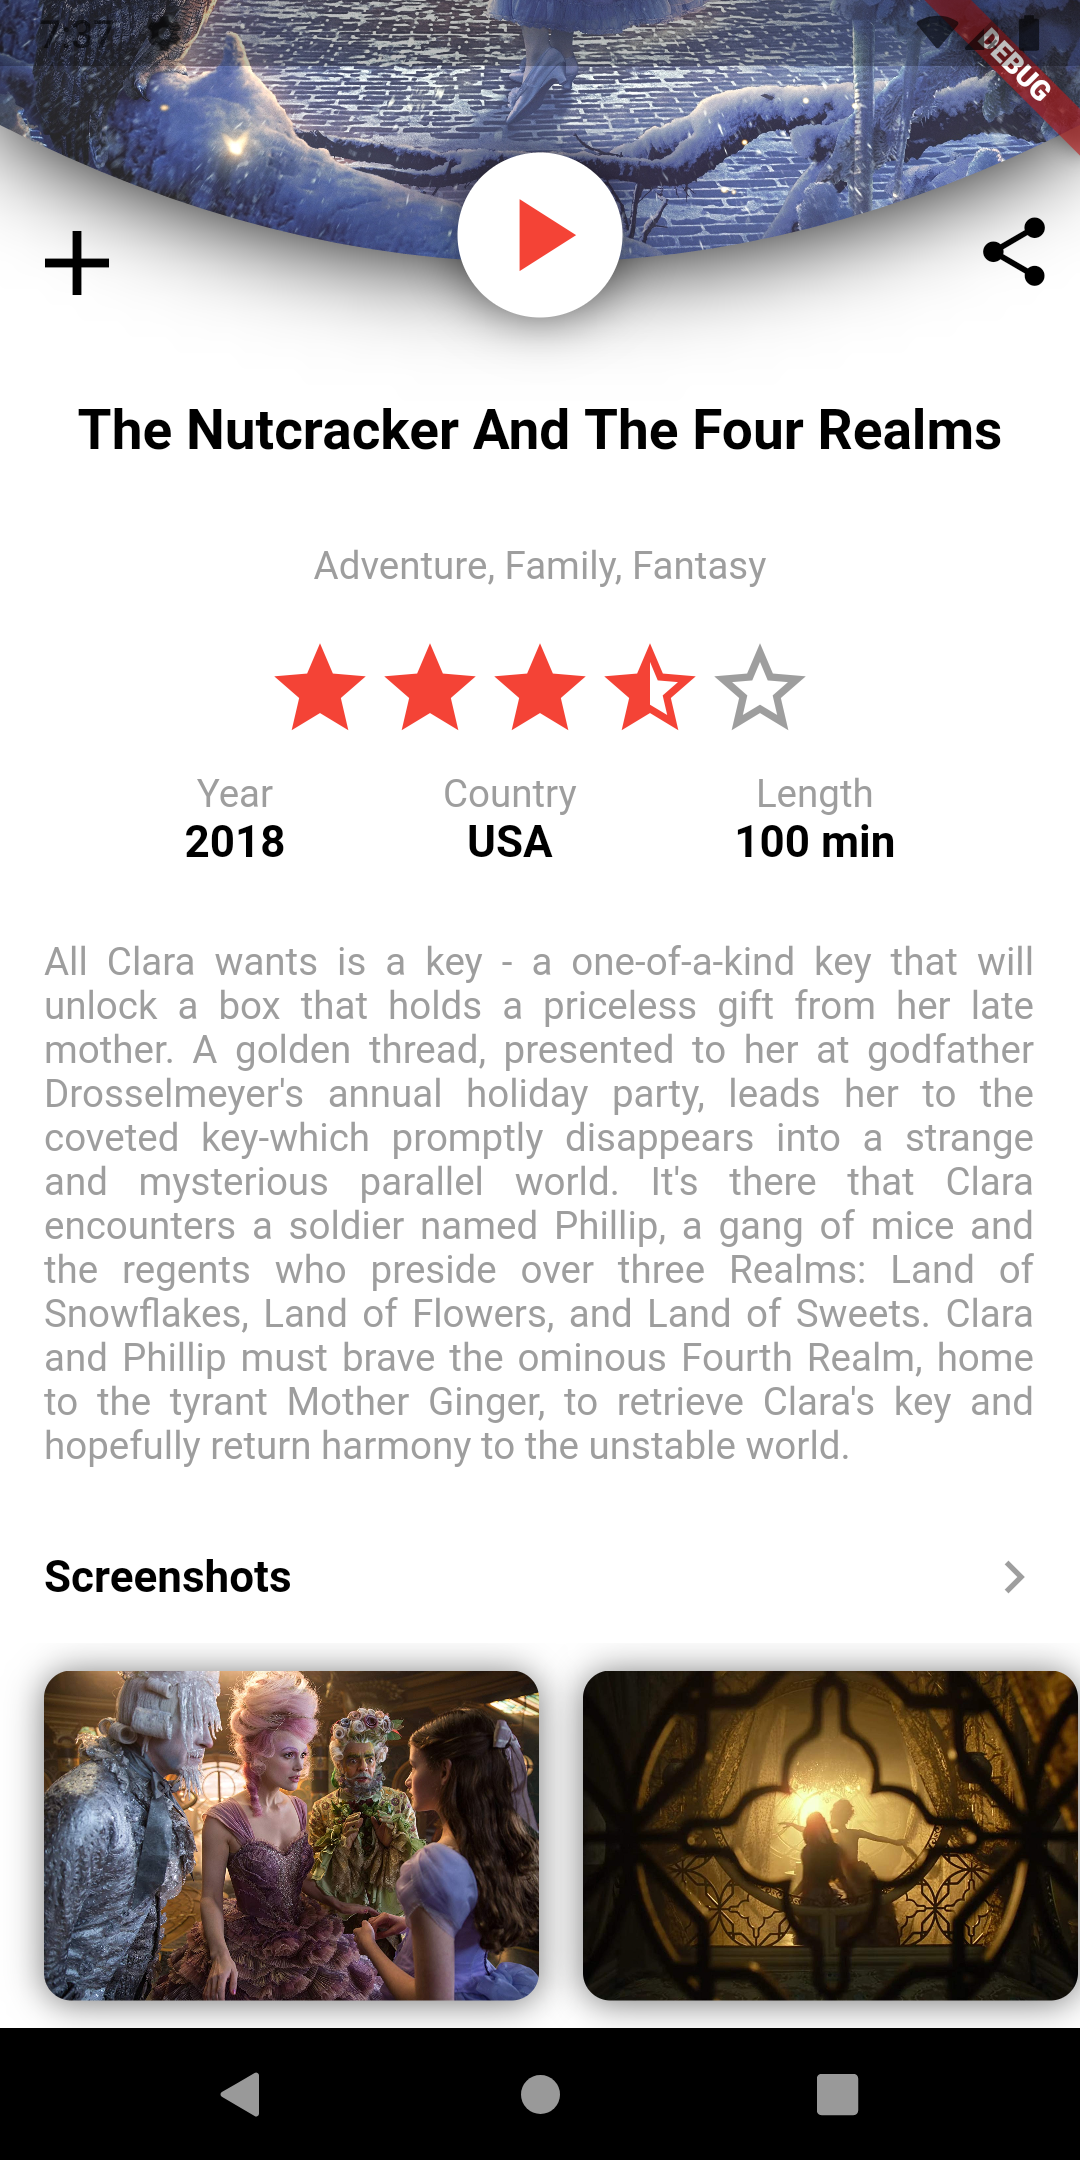
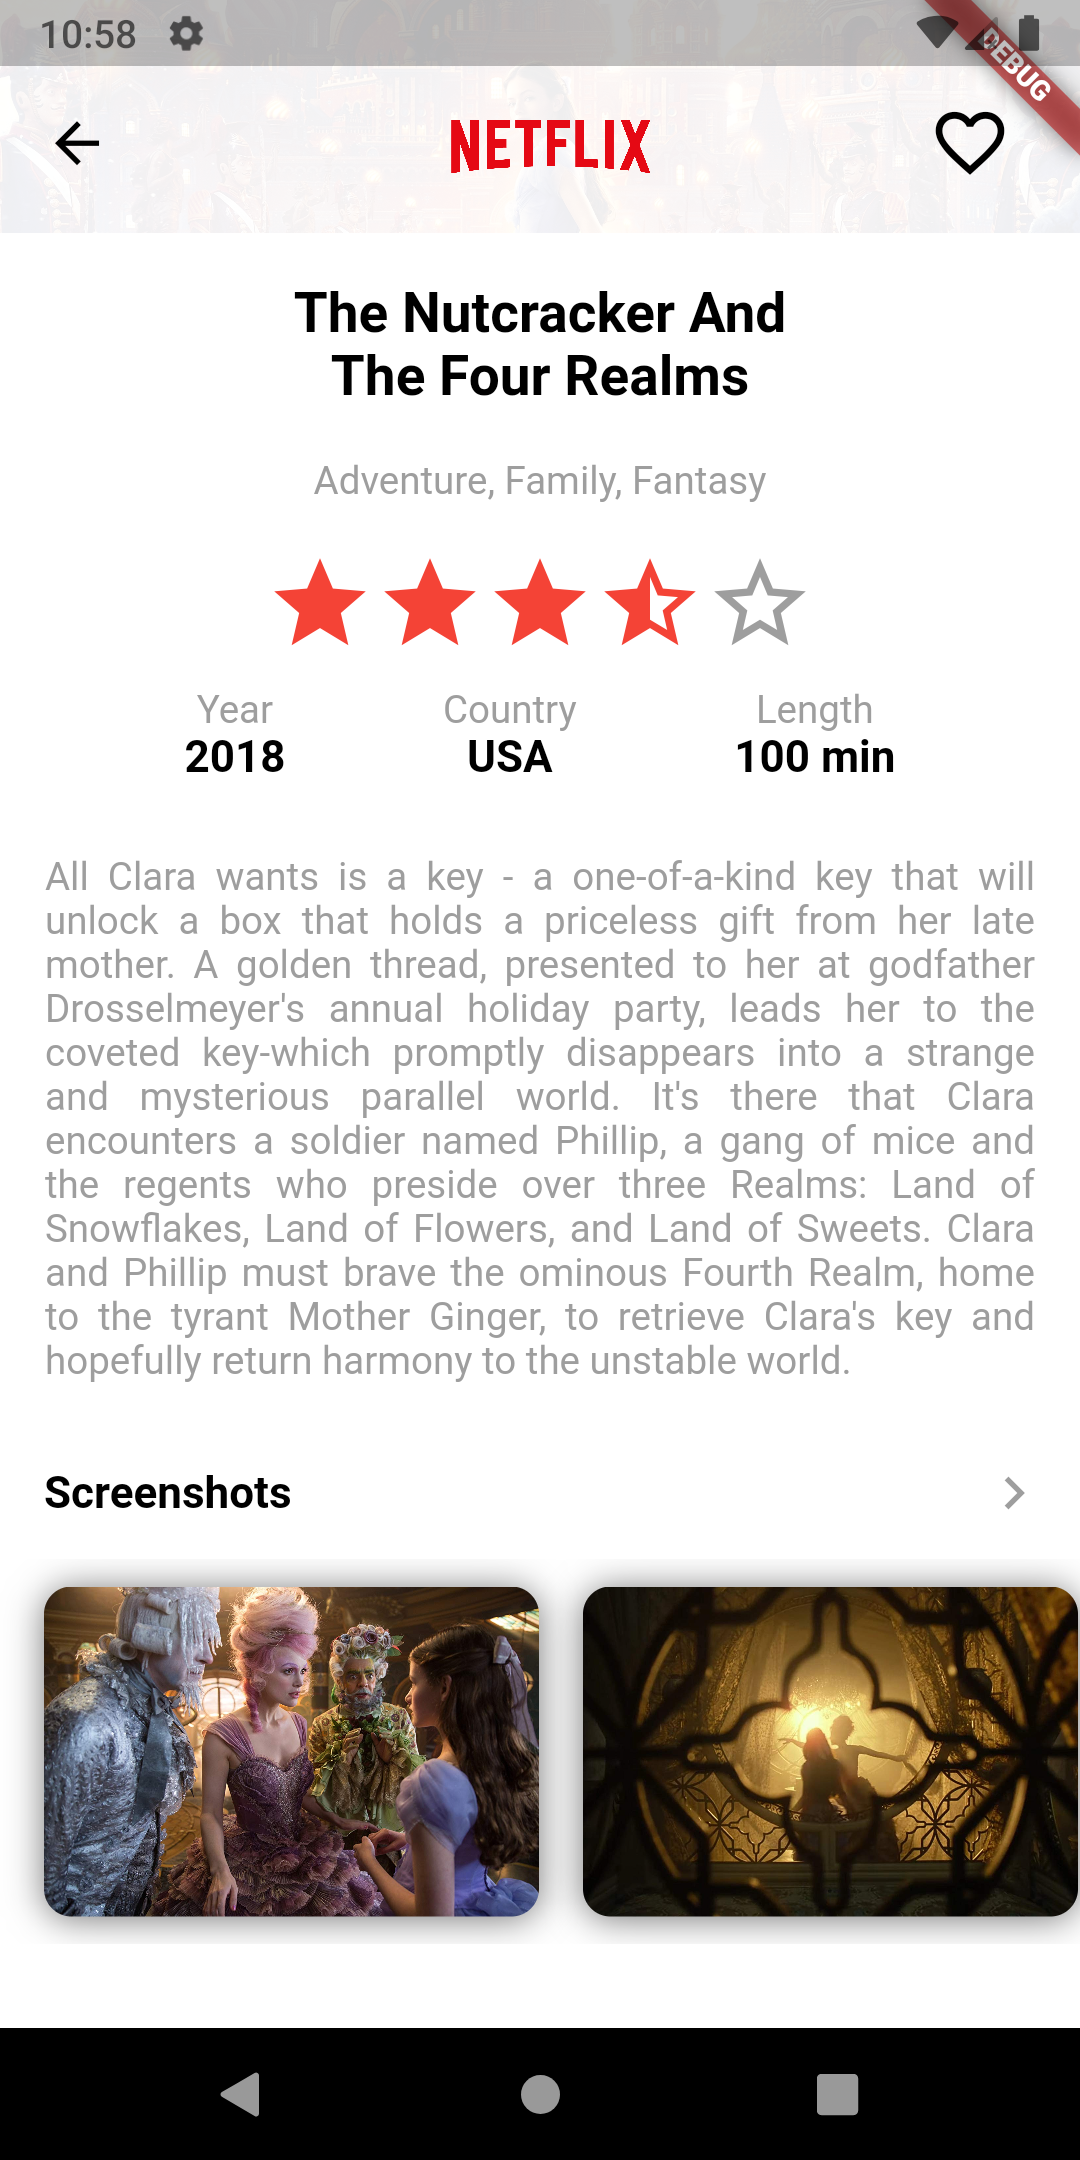
Integrate CustomScrollView on detail page

diff --git a/lib/pages/detail/movie_detail.dart b/lib/pages/detail/movie_detail.dart
@@ -15,34 +15,47 @@ class MovieDetailPage extends StatelessWidget {
   Widget build(BuildContext context) {
     return Scaffold(
       backgroundColor: Colors.white,
-      body: MediaQuery.removePadding(
-        removeTop: true,
-        child: ListView(
-          children: <Widget>[
-            Container(
-              height: 370,
-              child: Stack(
-                children: <Widget>[
-                  ImageContainer(movie: movie),
-                  BuildAppBar(),
-                  PlayButton(),
-                  ShareAndAddButton()
-                ],
+      body: CustomScrollView(
+        slivers: <Widget>[
+          SliverAppBar(
+            title: BuildAppBar(),
+            expandedHeight: 370,
+            pinned: true,
+            flexibleSpace: FlexibleSpaceBar(
+              background: Padding(
+                padding: const EdgeInsets.only(bottom: 15),
+                child: Stack(
+                  children: <Widget>[
+                    ImageContainer(movie: movie),
+                    PlayButton(),
+                    ShareAndAddButton()
+                  ],
+                ),
               ),
             ),
-            buildMovieTitle(),
-            buildMovieCategoriesText(),
-            RaringBar(movie: movie),
-            BuildCountryYearLengthOfMovie(movie: movie),
-            buildMovieDescription(),
-            BuildContentList(title: 'Screenshots',list: movie.screenshots),
-          ],
-        ),
-        context: context,
+          ),
+          SliverFixedExtentList(
+              delegate: SliverChildBuilderDelegate(
+                (context, position) {
+                  return Column(
+                    children: <Widget>[
+                      buildMovieTitle(),
+                      buildMovieCategoriesText(),
+                      RaringBar(movie: movie),
+                      BuildCountryYearLengthOfMovie(movie: movie),
+                      buildMovieDescription(),
+                      BuildContentList(
+                          title: 'Screenshots', list: movie.screenshots)
+                    ],
+                  );
+                },
+                childCount: 1,
+              ),
+              itemExtent: MediaQuery.of(context).size.height),
+        ],
       ),
     );
   }
-
 
   buildMovieCategoriesText() {
     return Container(

diff --git a/lib/pages/detail/widget/detail_top_banner_stack.dart b/lib/pages/detail/widget/detail_top_banner_stack.dart
@@ -60,24 +60,22 @@ class PlayButton extends StatelessWidget {
 class BuildAppBar extends StatelessWidget {
   @override
   Widget build(BuildContext context) {
-    return Padding(
-      padding: const EdgeInsets.only(left: 20, top: 40),
-      child: Row(
-        mainAxisAlignment: MainAxisAlignment.spaceBetween,
-        children: <Widget>[
-          IconButton(
-              icon: Icon(Icons.arrow_back, size: 30, color: Colors.black,),
-              onPressed: () => Navigator.pop(context)),
-          Image(
-            image: AssetImage('assets/images/netflix_logo.png'),
-            height: 50,
-            width: 100,
-          ),
-          IconButton(
-              icon: Icon(Icons.favorite_border, size: 30,color: Colors.black,),
-              onPressed: () => Navigator.pop(context)),
-        ],
-      ),
+    return Row(
+      mainAxisAlignment: MainAxisAlignment.spaceBetween,
+      children: <Widget>[
+        Flexible(
+          child: Center(
+            child: Image(
+              image: AssetImage('assets/images/netflix_logo.png'),
+              height: 50,
+              width: 100,
+            ),
+          )
+        ),
+        IconButton(
+            icon: Icon(Icons.favorite_border, size: 30,color: Colors.black,),
+            onPressed: () => Navigator.pop(context)),
+      ],
     );
   }
 }
